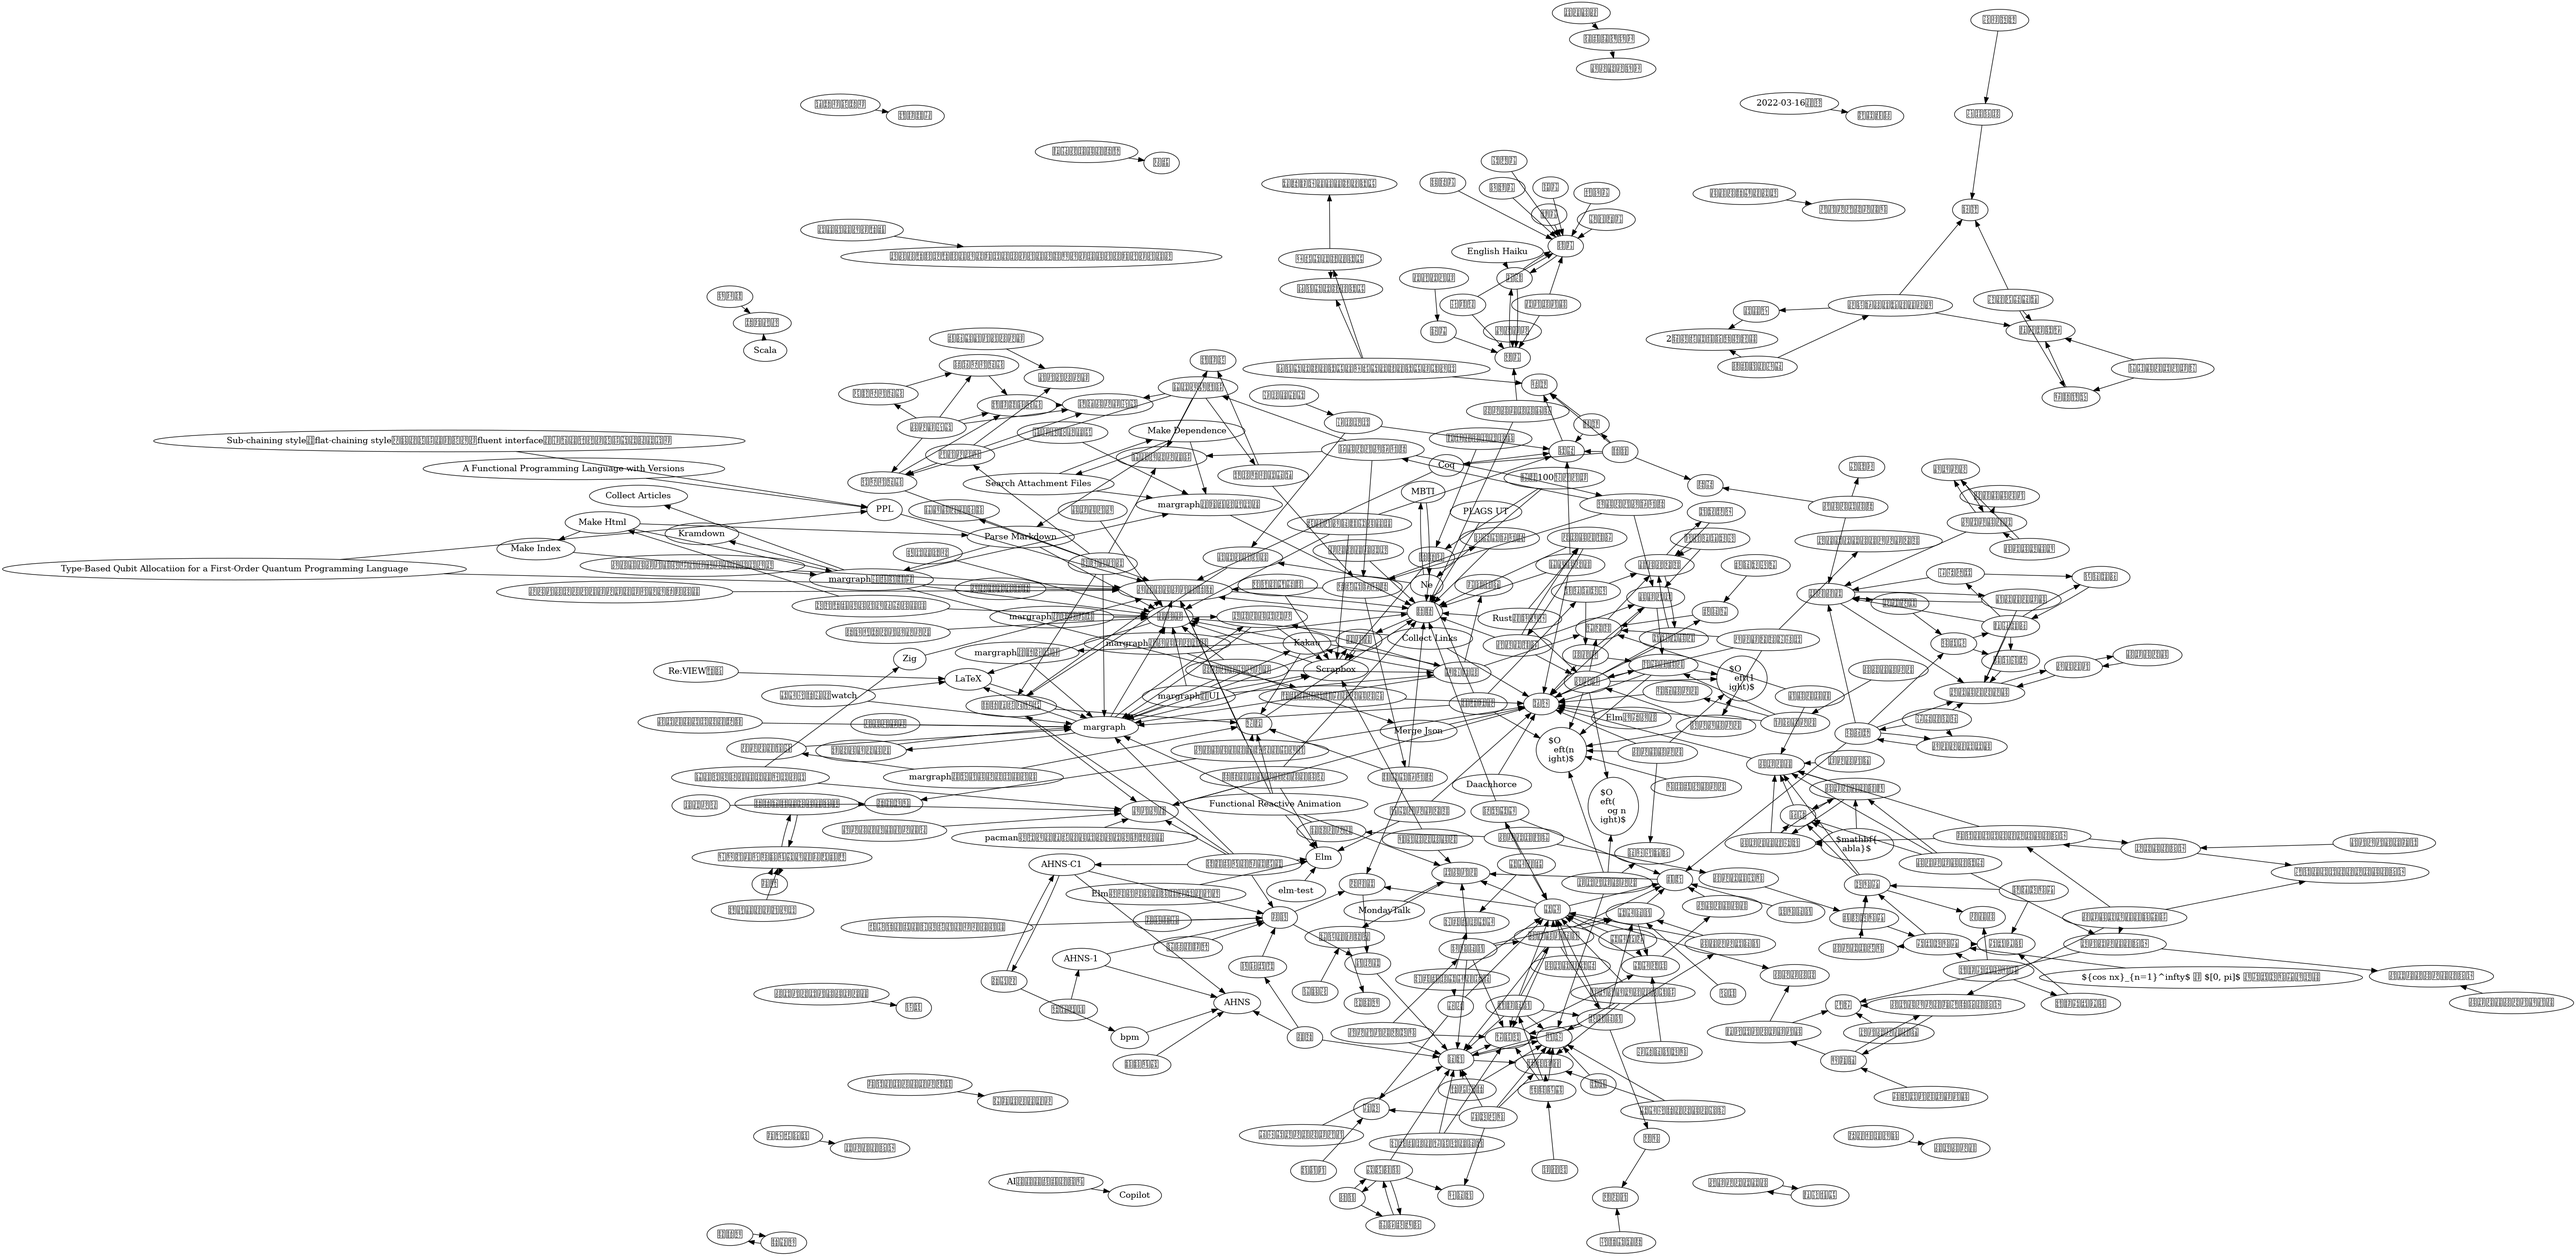
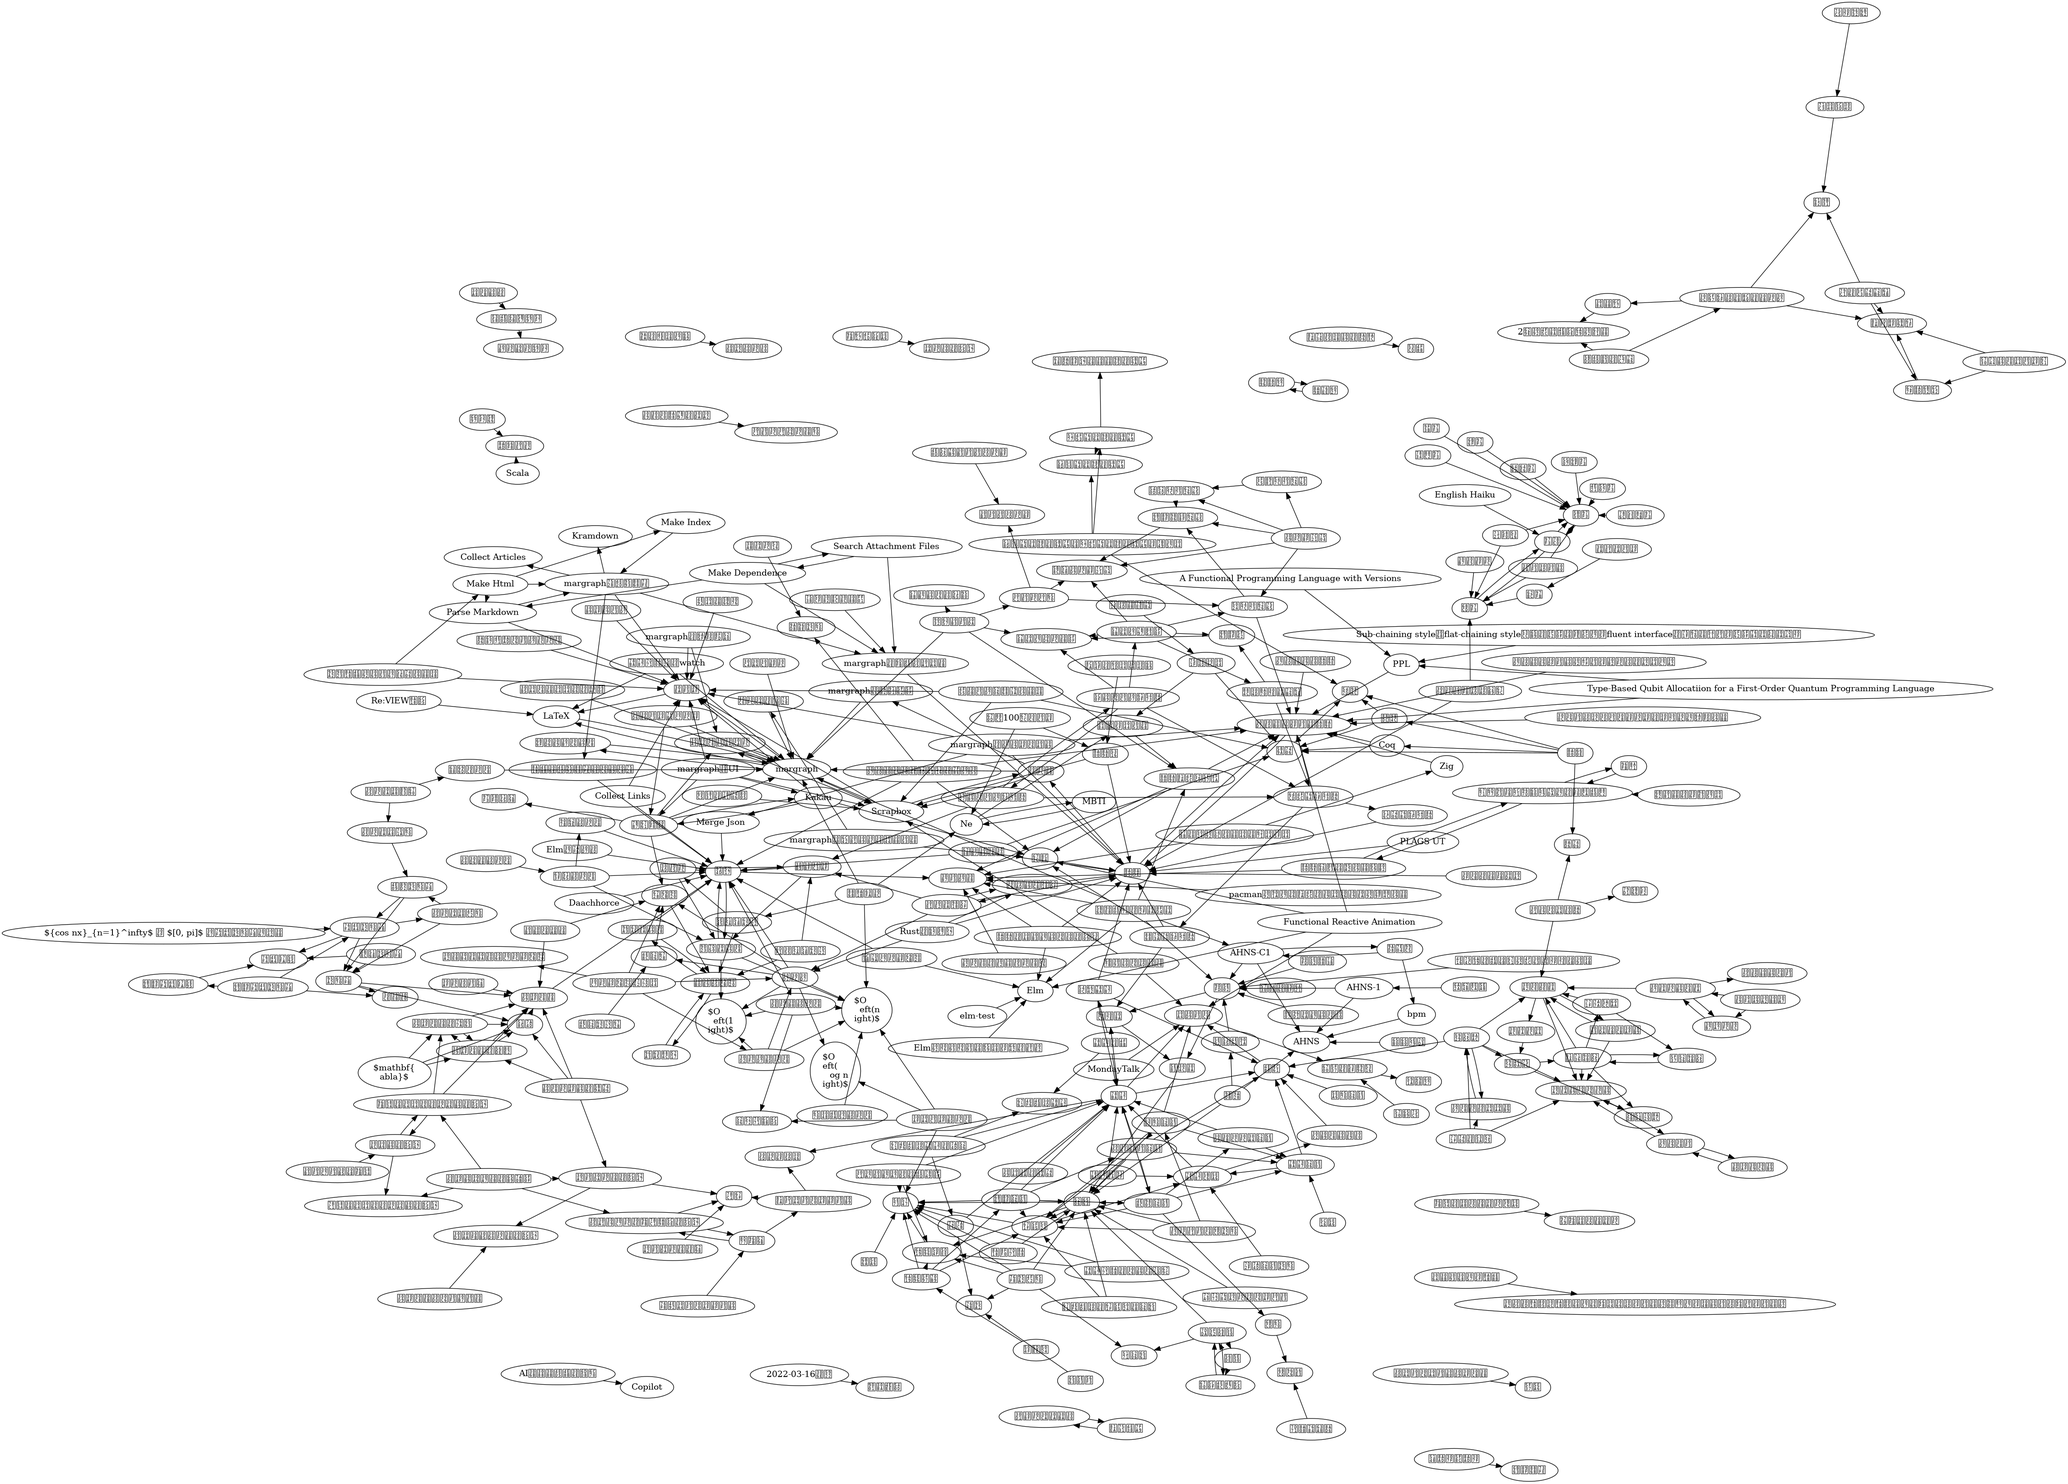
deploy: 4de4f768a3fb6828eb7d1533bf9662ced0923f02

diff --git a/scraps/complex-system.html b/scraps/complex-system.html
@@ -7,7 +7,7 @@
     <link rel="stylesheet" href="https://cdn.jsdelivr.net/npm/bootstrap-dark-5@1.1.3/dist/css/bootstrap-nightfall.min.css" media="(prefers-color-scheme: dark)">
     <link rel="stylesheet" href="https://cdnjs.cloudflare.com/ajax/libs/highlight.js/11.3.1/styles/base16/ashes.min.css">
     <link rel="stylesheet" href="../style.css" type="text/css">
-    <title>世界樹の上に村を作ってみませんか</title>
+    <title>複雑なシステム</title>
     <meta NAME="robots" CONTENT="noindex,nofollow">
   </head>
   <body>
@@ -18,45 +18,32 @@
           
             <li class="breadcrumb-item"><a href="../index.html">margraph</a></li>
           
-            <li class="breadcrumb-item"><a href="../light-novel/index.html">light-novel</a></li>
+            <li class="breadcrumb-item"><a href="../scraps/index.html">scraps</a></li>
           
-          <li class="breadcrumb-item">世界樹の上に村を作ってみませんか</li>
+          <li class="breadcrumb-item">複雑なシステム</li>
         </ol>
       </div>
     </nav>
 
     <article class="container" style="max-width: 40em;">
 
-      <h1>世界樹の上に村を作ってみませんか</h1>
+      <h1>複雑なシステム</h1>
 
       
         <div class="contents">
         
             
-              <div>氷純</div>
-            
-          
-            
               <div><ul>
-  <li>ハロロース！の元ネタ</li>
-  <li>かなりしっかりとしたまちづくり系
+  <li>複雑なシステムがもたらす経験や知性のレベルに惹きつけられる</li>
+  <li>しかし、煩雑で複雑すぎるシステムは良くない
     <ul>
-      <li>橋の出番が多め</li>
+      <li>解決策を継ぎ足し継ぎ足しで使っているに過ぎない</li>
+      <li>システムの部分部分が、互いに関係していない</li>
     </ul>
   </li>
-  <li>ハイファンタジー小説ならではの、妄想が広がる建築の世界観</li>
-  <li>村から<a href="../other/city.html">都市</a>へと、主人公と共に<a href="../other/city.html">都市</a>も成長していく
-    <ul>
-      <li>現実だとまちづくりは寿命が足りないけれど、そこはエルフの長寿でカバー</li>
-    </ul>
-  </li>
-  <li>100万字でしっかりとした読み応え</li>
+  <li>「<a href="../other/city.html">都市</a>デザイン 101のアイデア」より</li>
 </ul>
 </div>
-            
-          
-            
-              <div>https://ncode.syosetu.com/n9764dc/</div>
             
           
         </div>
@@ -75,16 +62,19 @@
             <div class="col">
               
                 前の記事<br />
-                <a href="../light-novel/sengoku-komachi.html">戦国小町苦労譚</a>
+                <a href="../scraps/city-project.html">都市計画</a>
               
             </div>
             <div class="col">
               
                 目次<br />
-                <a href="../light-novel/index.html">light-novel</a>
+                <a href="../scraps/index.html">scraps</a>
               
             </div>
             <div class="col">
+              
+                次の記事<br />
+                <a href="../scraps/counter-example.html">反例</a>
               
             </div>
           </div>
@@ -93,7 +83,7 @@
 
       <div class="d-flex flex-row-reverse">
         
-          <button type="button" class="btn btn-outline-primary btn-sm" onclick="window.location.href='https://github.com/soukouki/margraph/edit/master/src/light-novel/world-tree.md';">Edit</button>
+          <button type="button" class="btn btn-outline-primary btn-sm" onclick="window.location.href='https://github.com/soukouki/margraph/edit/master/src/scraps/complex-system.md';">Edit</button>
         
         
       </div>
@@ -132,6 +122,15 @@
               <div class="col-4">
                 <div class="card h-100">
                   <div class="card-body">
+                    <h5 class="card-title fs-6"><a href="../light-novel/world-tree.html">世界樹の上に村を作ってみませんか</a></h5>
+                    <p class="card-text">氷純 - ハロロース！の元ネタ - かなりしっかりとしたまちづ...</p>
+                  </div>
+                </div>
+              </div>
+            
+              <div class="col-4">
+                <div class="card h-100">
+                  <div class="card-body">
                     <h5 class="card-title fs-6"><a href="../long-tweets/2021-11-26.html">地名の規模</a></h5>
                     <p class="card-text">シムトラで街の位置をリアルと合わせる時、かつ今の市町村よりよっ...</p>
                   </div>
@@ -152,15 +151,6 @@
                   <div class="card-body">
                     <h5 class="card-title fs-6"><a href="../scraps/city-project.html">都市計画</a></h5>
                     <p class="card-text">- > 都市計画は、目的地までの道のりを目的地と同じくらい望ま...</p>
-                  </div>
-                </div>
-              </div>
-            
-              <div class="col-4">
-                <div class="card h-100">
-                  <div class="card-body">
-                    <h5 class="card-title fs-6"><a href="../scraps/complex-system.html">複雑なシステム</a></h5>
-                    <p class="card-text">- 複雑なシステムがもたらす経験や知性のレベルに惹きつけられる...</p>
                   </div>
                 </div>
               </div>

diff --git a/scraps/city-project.html b/scraps/city-project.html
@@ -74,7 +74,7 @@
             <div class="col">
               
                 次の記事<br />
-                <a href="../scraps/counter-example.html">反例</a>
+                <a href="../scraps/complex-system.html">複雑なシステム</a>
               
             </div>
           </div>
@@ -142,6 +142,15 @@
                   <div class="card-body">
                     <h5 class="card-title fs-6"><a href="../other/undergraduate-1.html">学部一年の振り返り</a></h5>
                     <p class="card-text">- プログラミング関連について   - Rustを触ってみたり...</p>
+                  </div>
+                </div>
+              </div>
+            
+              <div class="col-4">
+                <div class="card h-100">
+                  <div class="card-body">
+                    <h5 class="card-title fs-6"><a href="../scraps/complex-system.html">複雑なシステム</a></h5>
+                    <p class="card-text">- 複雑なシステムがもたらす経験や知性のレベルに惹きつけられる...</p>
                   </div>
                 </div>
               </div>

diff --git a/other/city.html b/other/city.html
@@ -228,6 +228,18 @@
             <div class="col-4">
               <div class="card h-100">
                 <div class="card-body">
+                  <h5 class="card-title fs-6"><a href="../scraps/complex-system.html">複雑なシステム</a></h5>
+                  <p class="card-text">- 複雑なシステムがもたらす経験や知性のレベルに惹きつけられる...</p>
+                </div>
+              </div>
+            </div>
+            
+          </div>
+        
+          <div class="row flex-nowrap overflow-auto">
+            <div class="col-4">
+              <div class="card h-100">
+                <div class="card-body">
                   <h5 class="card-title fs-6"><a href="../simutrans/ahns-c1.html">AHNS-C1</a></h5>
                   <p class="card-text">- AHNSのコンセプト鯖 - 途中から中心都市の成京の路線バ...</p>
                 </div>

diff --git a/simutrans/ahns-1.html b/simutrans/ahns-1.html
@@ -232,6 +232,15 @@
               <div class="col-4">
                 <div class="card h-100">
                   <div class="card-body">
+                    <h5 class="card-title fs-6"><a href="../scraps/complex-system.html">複雑なシステム</a></h5>
+                    <p class="card-text">- 複雑なシステムがもたらす経験や知性のレベルに惹きつけられる...</p>
+                  </div>
+                </div>
+              </div>
+            
+              <div class="col-4">
+                <div class="card h-100">
+                  <div class="card-body">
                     <h5 class="card-title fs-6"><a href="../simutrans/inner-city-transfar.html">市内交通</a></h5>
                     <p class="card-text">- 市内・都市内の需要を処理する交通 - バスや地下鉄、市電、...</p>
                   </div>

diff --git a/simutrans/ahns-c1.html b/simutrans/ahns-c1.html
@@ -201,6 +201,15 @@
               <div class="col-4">
                 <div class="card h-100">
                   <div class="card-body">
+                    <h5 class="card-title fs-6"><a href="../scraps/complex-system.html">複雑なシステム</a></h5>
+                    <p class="card-text">- 複雑なシステムがもたらす経験や知性のレベルに惹きつけられる...</p>
+                  </div>
+                </div>
+              </div>
+            
+              <div class="col-4">
+                <div class="card h-100">
+                  <div class="card-body">
                     <h5 class="card-title fs-6"><a href="../simutrans/inner-city-transfar.html">市内交通</a></h5>
                     <p class="card-text">- 市内・都市内の需要を処理する交通 - バスや地下鉄、市電、...</p>
                   </div>

diff --git a/long-tweets/2021-11-26.html b/long-tweets/2021-11-26.html
@@ -147,6 +147,15 @@
               <div class="col-4">
                 <div class="card h-100">
                   <div class="card-body">
+                    <h5 class="card-title fs-6"><a href="../scraps/complex-system.html">複雑なシステム</a></h5>
+                    <p class="card-text">- 複雑なシステムがもたらす経験や知性のレベルに惹きつけられる...</p>
+                  </div>
+                </div>
+              </div>
+            
+              <div class="col-4">
+                <div class="card h-100">
+                  <div class="card-body">
                     <h5 class="card-title fs-6"><a href="../simutrans/ahns-c1.html">AHNS-C1</a></h5>
                     <p class="card-text">- AHNSのコンセプト鯖 - 途中から中心都市の成京の路線バ...</p>
                   </div>

diff --git a/other/atsumari.html b/other/atsumari.html
@@ -313,6 +313,15 @@
               <div class="col-4">
                 <div class="card h-100">
                   <div class="card-body">
+                    <h5 class="card-title fs-6"><a href="../scraps/complex-system.html">複雑なシステム</a></h5>
+                    <p class="card-text">- 複雑なシステムがもたらす経験や知性のレベルに惹きつけられる...</p>
+                  </div>
+                </div>
+              </div>
+            
+              <div class="col-4">
+                <div class="card h-100">
+                  <div class="card-body">
                     <h5 class="card-title fs-6"><a href="../simutrans/ahns-c1.html">AHNS-C1</a></h5>
                     <p class="card-text">- AHNSのコンセプト鯖 - 途中から中心都市の成京の路線バ...</p>
                   </div>

diff --git a/other/hirogari.html b/other/hirogari.html
@@ -272,6 +272,15 @@
               <div class="col-4">
                 <div class="card h-100">
                   <div class="card-body">
+                    <h5 class="card-title fs-6"><a href="../scraps/complex-system.html">複雑なシステム</a></h5>
+                    <p class="card-text">- 複雑なシステムがもたらす経験や知性のレベルに惹きつけられる...</p>
+                  </div>
+                </div>
+              </div>
+            
+              <div class="col-4">
+                <div class="card h-100">
+                  <div class="card-body">
                     <h5 class="card-title fs-6"><a href="../simutrans/ahns-c1.html">AHNS-C1</a></h5>
                     <p class="card-text">- AHNSのコンセプト鯖 - 途中から中心都市の成京の路線バ...</p>
                   </div>

diff --git a/simutrans/inner-city-transfar.html b/simutrans/inner-city-transfar.html
@@ -157,6 +157,15 @@
               <div class="col-4">
                 <div class="card h-100">
                   <div class="card-body">
+                    <h5 class="card-title fs-6"><a href="../scraps/complex-system.html">複雑なシステム</a></h5>
+                    <p class="card-text">- 複雑なシステムがもたらす経験や知性のレベルに惹きつけられる...</p>
+                  </div>
+                </div>
+              </div>
+            
+              <div class="col-4">
+                <div class="card h-100">
+                  <div class="card-body">
                     <h5 class="card-title fs-6"><a href="../simutrans/ahns-c1.html">AHNS-C1</a></h5>
                     <p class="card-text">- AHNSのコンセプト鯖 - 途中から中心都市の成京の路線バ...</p>
                   </div>

diff --git a/other/undergraduate-1.html b/other/undergraduate-1.html
@@ -566,6 +566,15 @@
               <div class="col-4">
                 <div class="card h-100">
                   <div class="card-body">
+                    <h5 class="card-title fs-6"><a href="../scraps/complex-system.html">複雑なシステム</a></h5>
+                    <p class="card-text">- 複雑なシステムがもたらす経験や知性のレベルに惹きつけられる...</p>
+                  </div>
+                </div>
+              </div>
+            
+              <div class="col-4">
+                <div class="card h-100">
+                  <div class="card-body">
                     <h5 class="card-title fs-6"><a href="../simutrans/ahns-1.html">AHNS-1</a></h5>
                     <p class="card-text">- 初めてのAHNS本戦   - この前にテスト鯖があった -...</p>
                   </div>

diff --git a/scraps/index.html b/scraps/index.html
@@ -57,6 +57,10 @@
           </div>
         
           <div class="list-group-item">
+            <a href="../scraps/complex-system.html">複雑なシステム</a>
+          </div>
+        
+          <div class="list-group-item">
             <a href="../scraps/counter-example.html">反例</a>
           </div>
         

diff --git a/scraps/counter-example.html b/scraps/counter-example.html
@@ -56,7 +56,7 @@
             <div class="col">
               
                 前の記事<br />
-                <a href="../scraps/city-project.html">都市計画</a>
+                <a href="../scraps/complex-system.html">複雑なシステム</a>
               
             </div>
             <div class="col">
